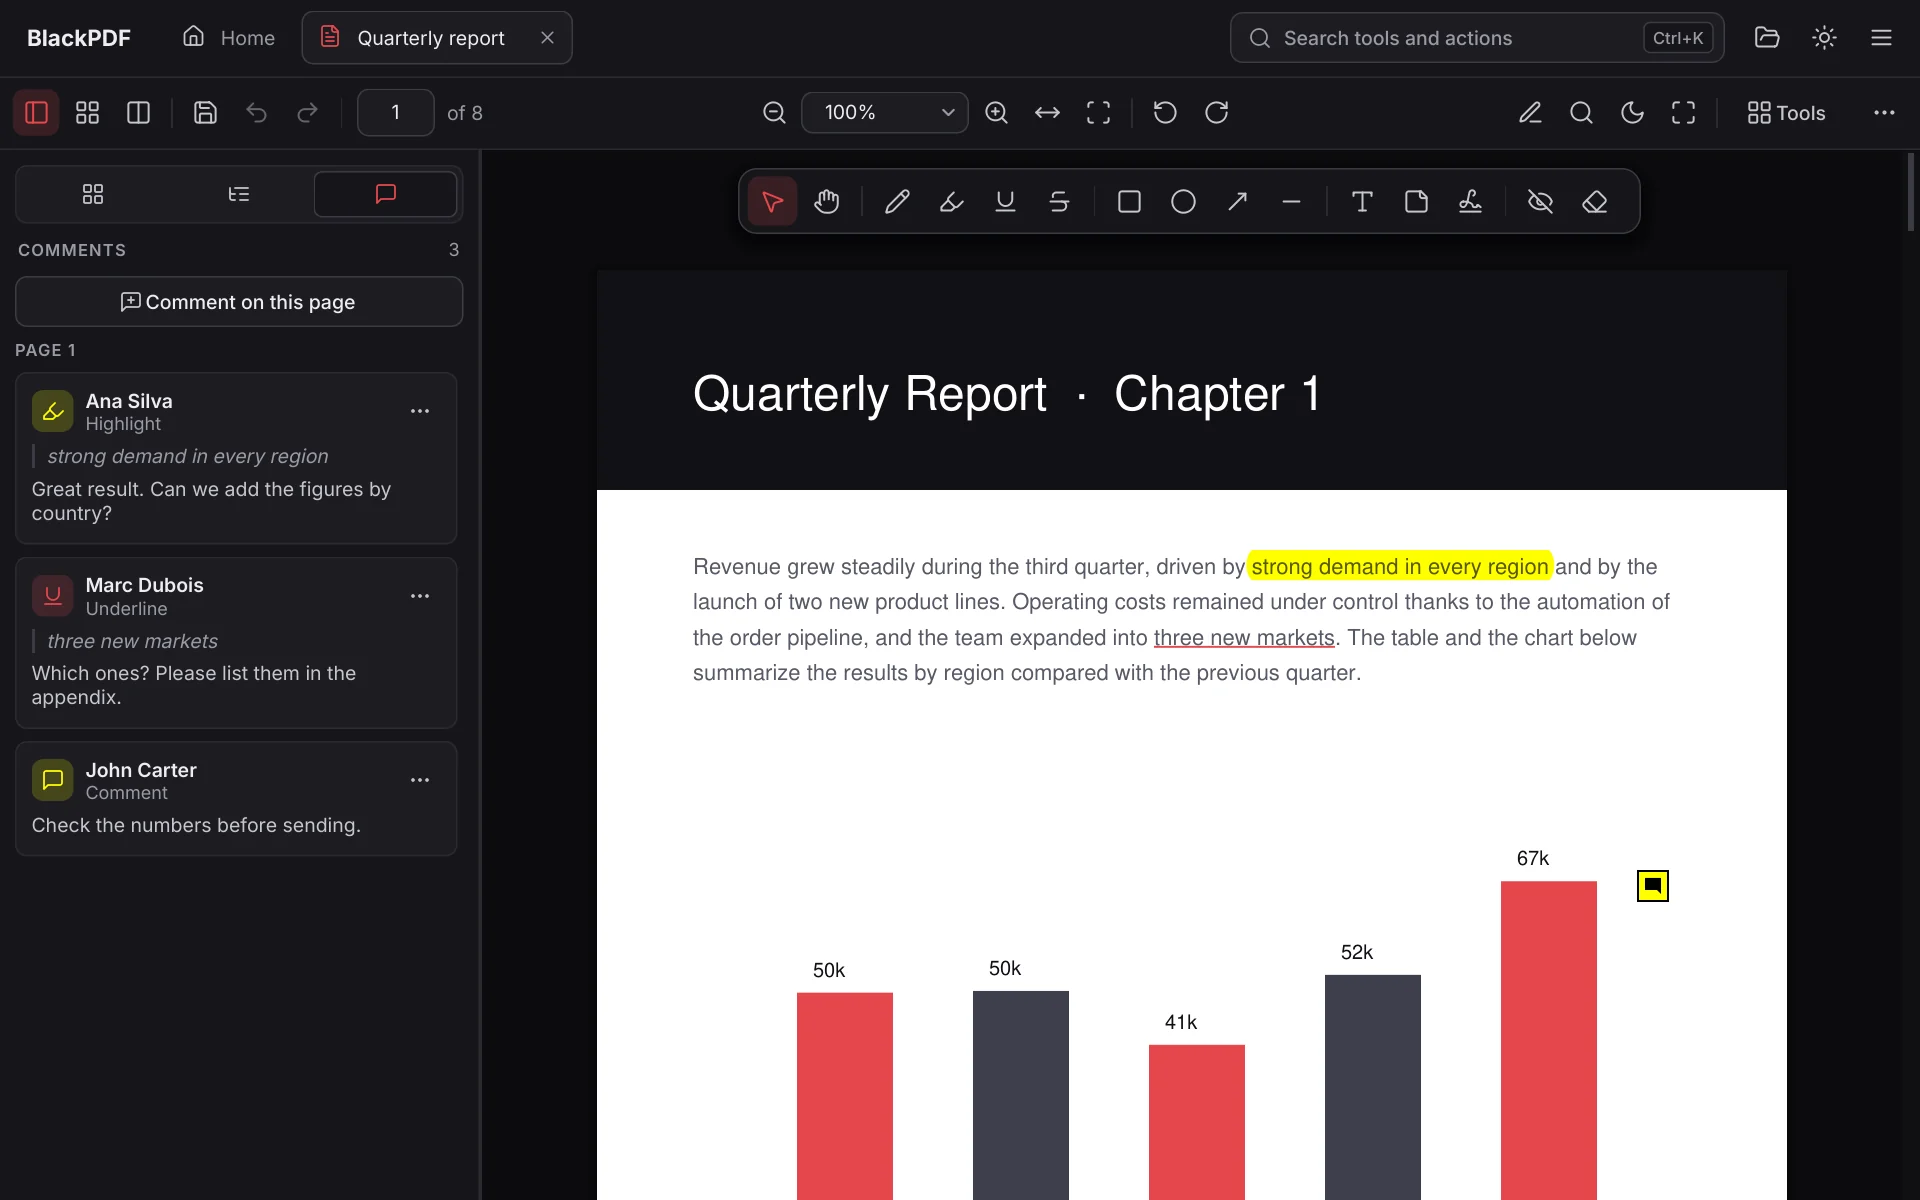
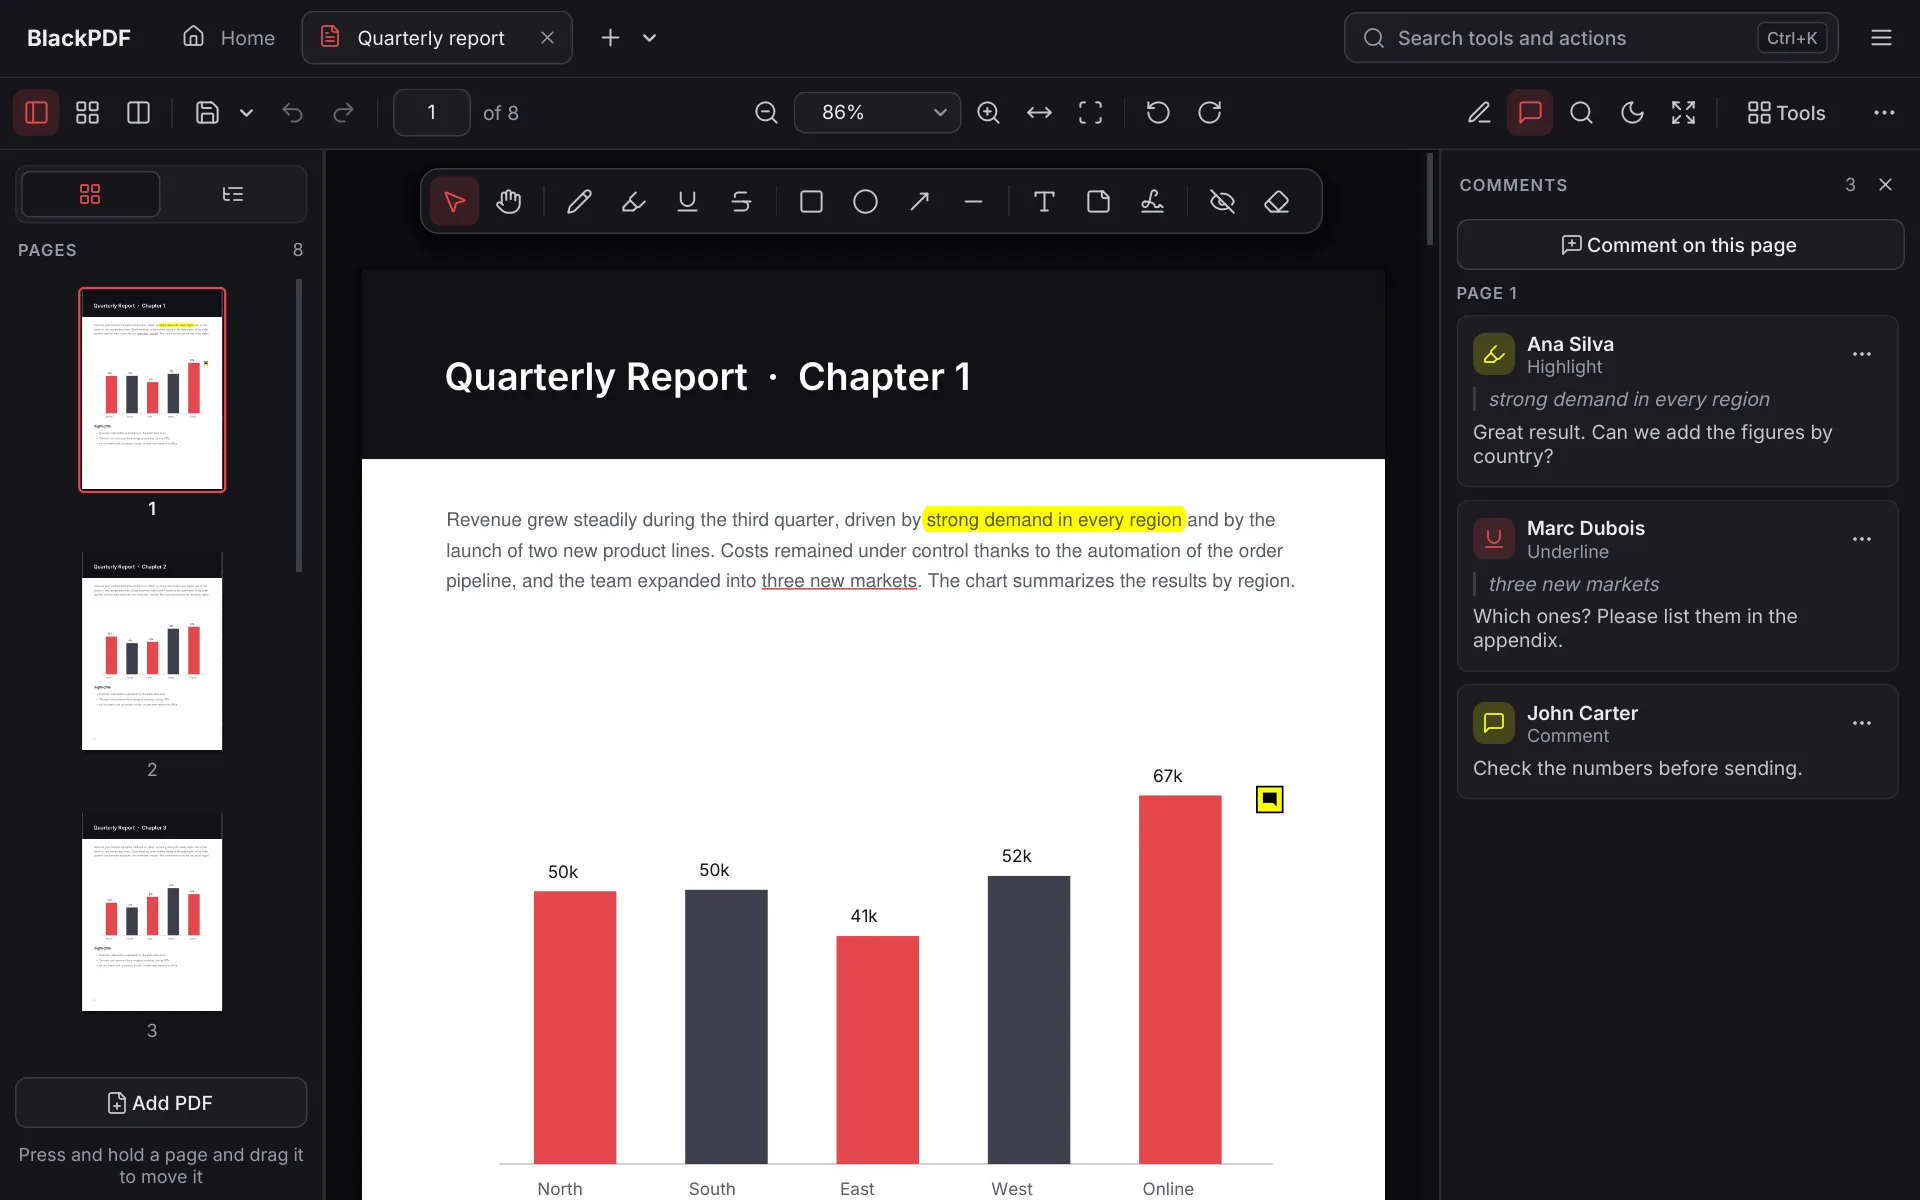
Capturas nuevas con la interfaz actual y la primera página ya no queda bajo la barra de anotación
- Al cambiar el zoom para conservar la página (por ejemplo, al abrir los comentarios), si se
  estaba al principio del documento la página subía hasta quedar tapada por la barra flotante.
- Capturas en inglés para el README y en español para el README en español.
- Notas de la versión con los avisos de actualización.

diff --git a/tests/test_ui.py b/tests/test_ui.py
@@ -830,3 +830,21 @@ def test_update_checks_are_monthly_and_can_be_muted(qapp, tmp_path):
         assert not muted.mute_box.isVisibleTo(muted), "con los avisos quitados no se ofrece la casilla"
     finally:
         settings().check_updates, settings().last_update_check = previous
+
+
+def test_first_page_stays_below_annotation_bar_when_panels_change(qapp, opened):
+    """Al abrir los comentarios el zoom se ajusta, pero el principio de la página no queda bajo la barra."""
+    _, tab, _ = opened
+    if not tab.annotation_bar.isVisible():
+        tab.toggle_annotation_bar()
+    tab.set_comments_visible(False)
+    tab.viewer.set_fit_mode("auto")
+    pump(qapp, 0.4)
+    tab.viewer.verticalScrollBar().setValue(0)
+    pump(qapp, 0.05)
+    viewer = tab.viewer
+    for visible in (True, False, True):
+        tab.set_comments_visible(visible)
+        pump(qapp, 0.4)
+        top = viewer._rects[0].top() - viewer.verticalScrollBar().value()
+        assert top >= viewer._top_inset, f"la página empieza en {top}, bajo la barra ({viewer._top_inset})"

diff --git a/blackpdf/ui/viewer.py b/blackpdf/ui/viewer.py
@@ -335,11 +335,17 @@ class PdfViewer(QAbstractScrollArea):
             return
         anchor = QPointF(self.viewport().width() / 2, 0)
         hit = self.hit_test(anchor, clamp=True)
+        # Altura en pantalla de ese punto: al principio del documento es el margen de arriba (con la
+        # barra de anotación encima) y se conserva, para que la página no quede tapada por la barra.
+        before = 0.0
+        if hit is not None:
+            old = self._rects[hit.page]
+            before = max(0.0, old.top() + hit.point.y() * self.scale - self.verticalScrollBar().value())
         self._zoom = zoom
         self._relayout()
         if hit is not None:
             rect = self._rects[hit.page]
-            self.verticalScrollBar().setValue(int(round(rect.top() + hit.point.y() * self.scale)))
+            self.verticalScrollBar().setValue(int(round(rect.top() + hit.point.y() * self.scale - before)))
         self.renderer.clear_tiles()
         self.zoomChanged.emit(self._zoom)
         self._tool_viewport_changed()

diff --git a/RELEASE_NOTES.md b/RELEASE_NOTES.md
@@ -20,9 +20,14 @@ The Windows installer is not code-signed yet: if SmartScreen shows a warning, cl
 - Digital signatures with your certificate (PAdES) and signature verification.
 - Built-in OCR in four languages.
 - 3D viewer for U3D and PRC models embedded in PDFs.
+- Optional update notices (at most once a month, you choose on first launch): the Windows version and the AppImage update themselves.
 
 ---
 
 **BlackPDF** es un visor y editor de PDF libre y gratuito que funciona sin conexión: tus documentos nunca salen de tu equipo.
 Disponible en español, inglés, portugués y francés. El instalador de Windows aún no está firmado: si SmartScreen muestra un aviso,
 pulsa **Más información** y **Ejecutar de todas formas**.
+
+Novedades: visor con pestañas, miniaturas, índice, búsqueda, modo noche y vista dividida; organizar, unir, dividir, alternar,
+extraer, girar, comprimir y convertir; anotaciones y comentarios compatibles con Acrobat; firma digital con certificado;
+OCR en cuatro idiomas; visor 3D (U3D y PRC) y avisos opcionales de versiones nuevas (como mucho una vez al mes).

diff --git a/README.es.md b/README.es.md
@@ -8,11 +8,11 @@ Disponible para **Windows 10/11** y **Linux**, en español, inglés, portugués 
 
 **[Descargar la última versión](https://github.com/TheBlackRobotsFoundation/BlackPDF/releases/latest)** · [Página web](https://blackrobots.org/blackpdf) · [Informar de un fallo](https://github.com/TheBlackRobotsFoundation/BlackPDF/issues)
 
-![BlackPDF con un documento y sus comentarios](docs/screenshots/document.webp)
+![BlackPDF con un documento y sus comentarios](docs/screenshots/es/document.webp)
 
 <p align="center">
-  <img src="docs/screenshots/home.webp" width="49%" alt="Pantalla de inicio con todas las herramientas">
-  <img src="docs/screenshots/viewer3d.webp" width="49%" alt="Visor 3D">
+  <img src="docs/screenshots/es/home.webp" width="49%" alt="Pantalla de inicio con todas las herramientas">
+  <img src="docs/screenshots/es/viewer3d.webp" width="49%" alt="Visor 3D">
 </p>
 
 ## Funciones
